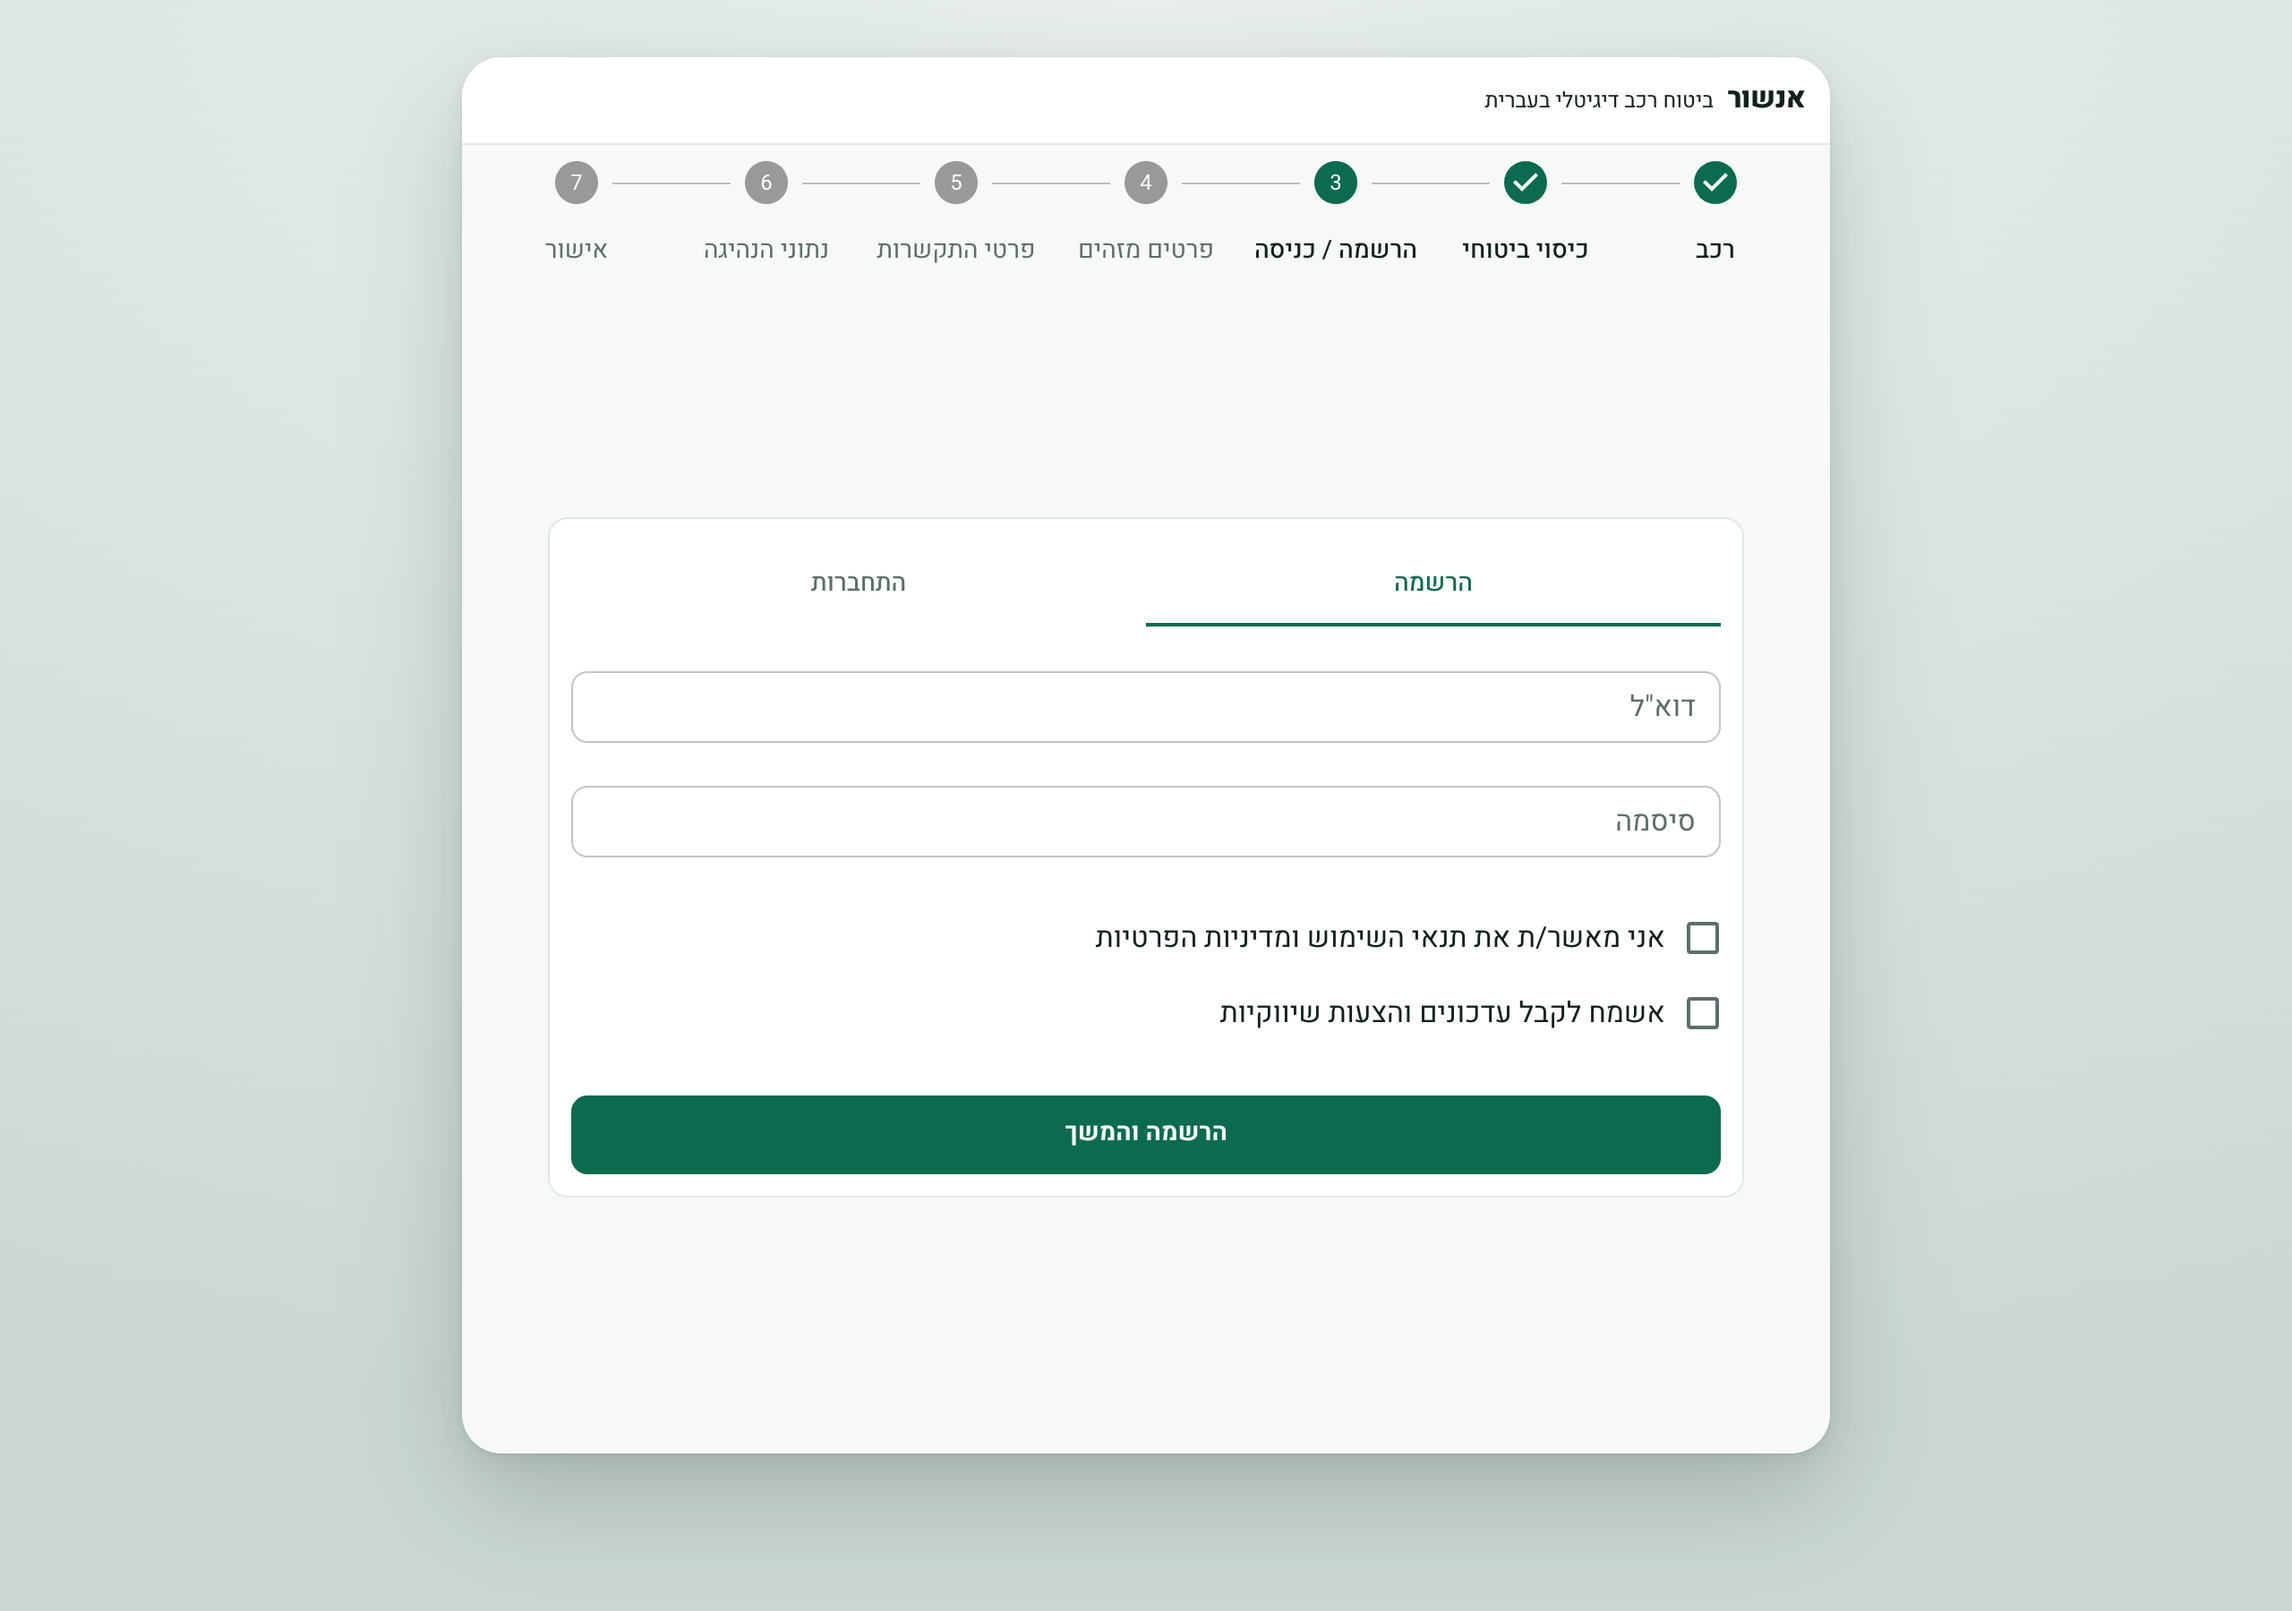
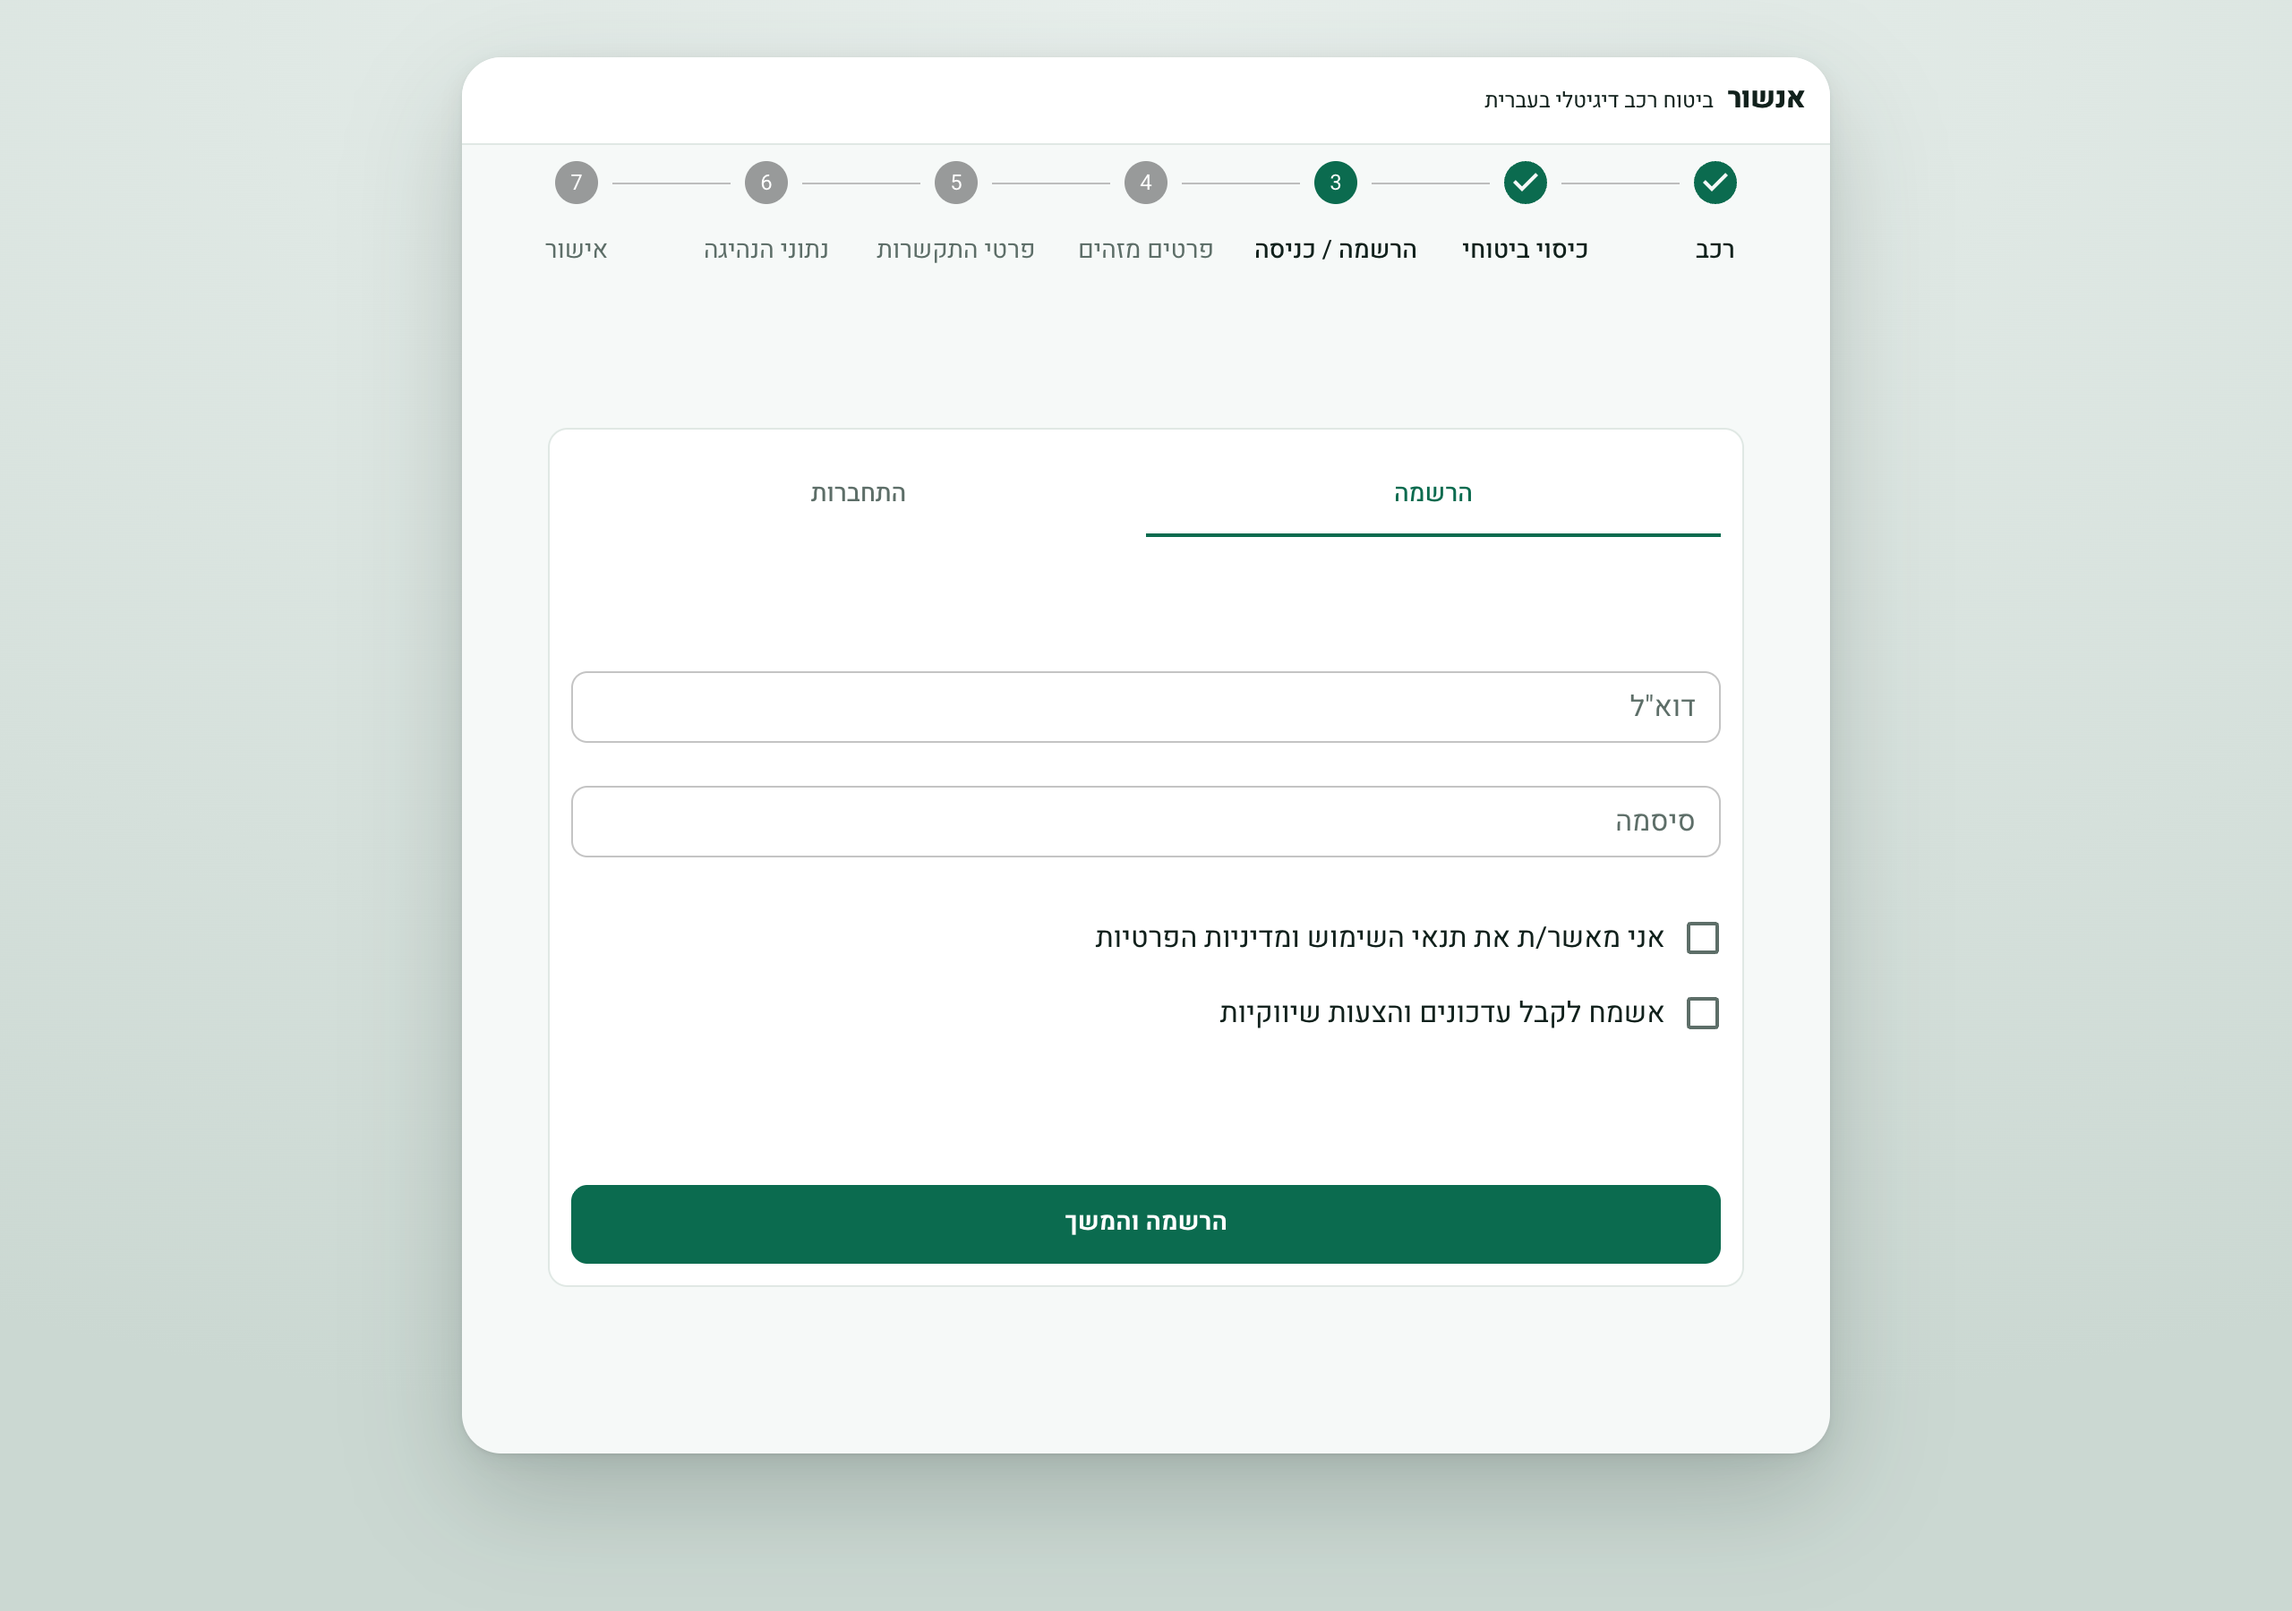
fix: applicant step controls and register card sizing

Changed region(s): [[0.25, 0.6533, 0.75, 0.8089], [0.5, 0.3111, 0.75, 0.3422]]

diff --git a/apps/web/src/components/ApplicantStep.tsx b/apps/web/src/components/ApplicantStep.tsx
@@ -21,6 +21,7 @@ interface ApplicantStepProps {
   error: unknown;
   onRetry: () => void;
   onSubmit: (event: BaseSyntheticEvent) => Promise<void>;
+  showBack?: boolean;
   children?: ReactNode;
 }
 
@@ -31,6 +32,7 @@ export function ApplicantStep({
   error,
   onRetry,
   onSubmit,
+  showBack,
   children,
 }: ApplicantStepProps) {
   const { t } = useTranslation();
@@ -42,7 +44,7 @@ export function ApplicantStep({
       }}
       noValidate
     >
-      <Stack spacing={4}>
+      <Stack spacing={4} sx={{ paddingInline: { xs: 0, sm: '5%' } }}>
         <Stack spacing={1}>
           <Typography variant="h6" component="h1">
             {heading}
@@ -63,7 +65,11 @@ export function ApplicantStep({
 
         <Stack spacing={6}>{children}</Stack>
 
-        <WizardActions submitLabel={submitLabel} pending={pending} />
+        <WizardActions
+          submitLabel={submitLabel}
+          pending={pending}
+          {...(showBack !== undefined && { showBack })}
+        />
       </Stack>
     </form>
   );

diff --git a/apps/web/src/components/WizardActions.tsx b/apps/web/src/components/WizardActions.tsx
@@ -12,6 +12,7 @@ interface WizardActionsProps {
   pending?: boolean;
   backLabel?: ReactNode;
   onBack?: () => void;
+  showBack?: boolean;
 }
 
 export function WizardActions({
@@ -19,6 +20,7 @@ export function WizardActions({
   pending,
   backLabel,
   onBack,
+  showBack,
 }: WizardActionsProps) {
   const { t } = useTranslation();
   const navigate = useNavigate();
@@ -48,14 +50,16 @@ export function WizardActions({
         {submitLabel}
       </PendingButton>
 
-      <Button
-        type="button"
-        variant="text"
-        onClick={goBack}
-        sx={{ color: 'text.secondary' }}
-      >
-        {backLabel ?? t('wizard.back')}
-      </Button>
+      {showBack !== false && (
+        <Button
+          type="button"
+          variant="text"
+          onClick={goBack}
+          sx={{ color: 'text.secondary' }}
+        >
+          {backLabel ?? t('wizard.back')}
+        </Button>
+      )}
     </Stack>
   );
 }

diff --git a/apps/web/src/routes/register/AuthPanel.tsx b/apps/web/src/routes/register/AuthPanel.tsx
@@ -359,7 +359,8 @@ export function AuthPanel() {
       variant="outlined"
       sx={{
         padding: 3,
-        blockSize: 380,
+        minBlockSize: 480,
+        flexShrink: 0,
         display: 'flex',
         flexDirection: 'column',
       }}

diff --git a/apps/web/src/routes/personal/Personal.tsx b/apps/web/src/routes/personal/Personal.tsx
@@ -74,6 +74,7 @@ export function Personal() {
         }
       }}
       onSubmit={submit}
+      showBack={false}
     >
       <Controller
         name="firstName"
